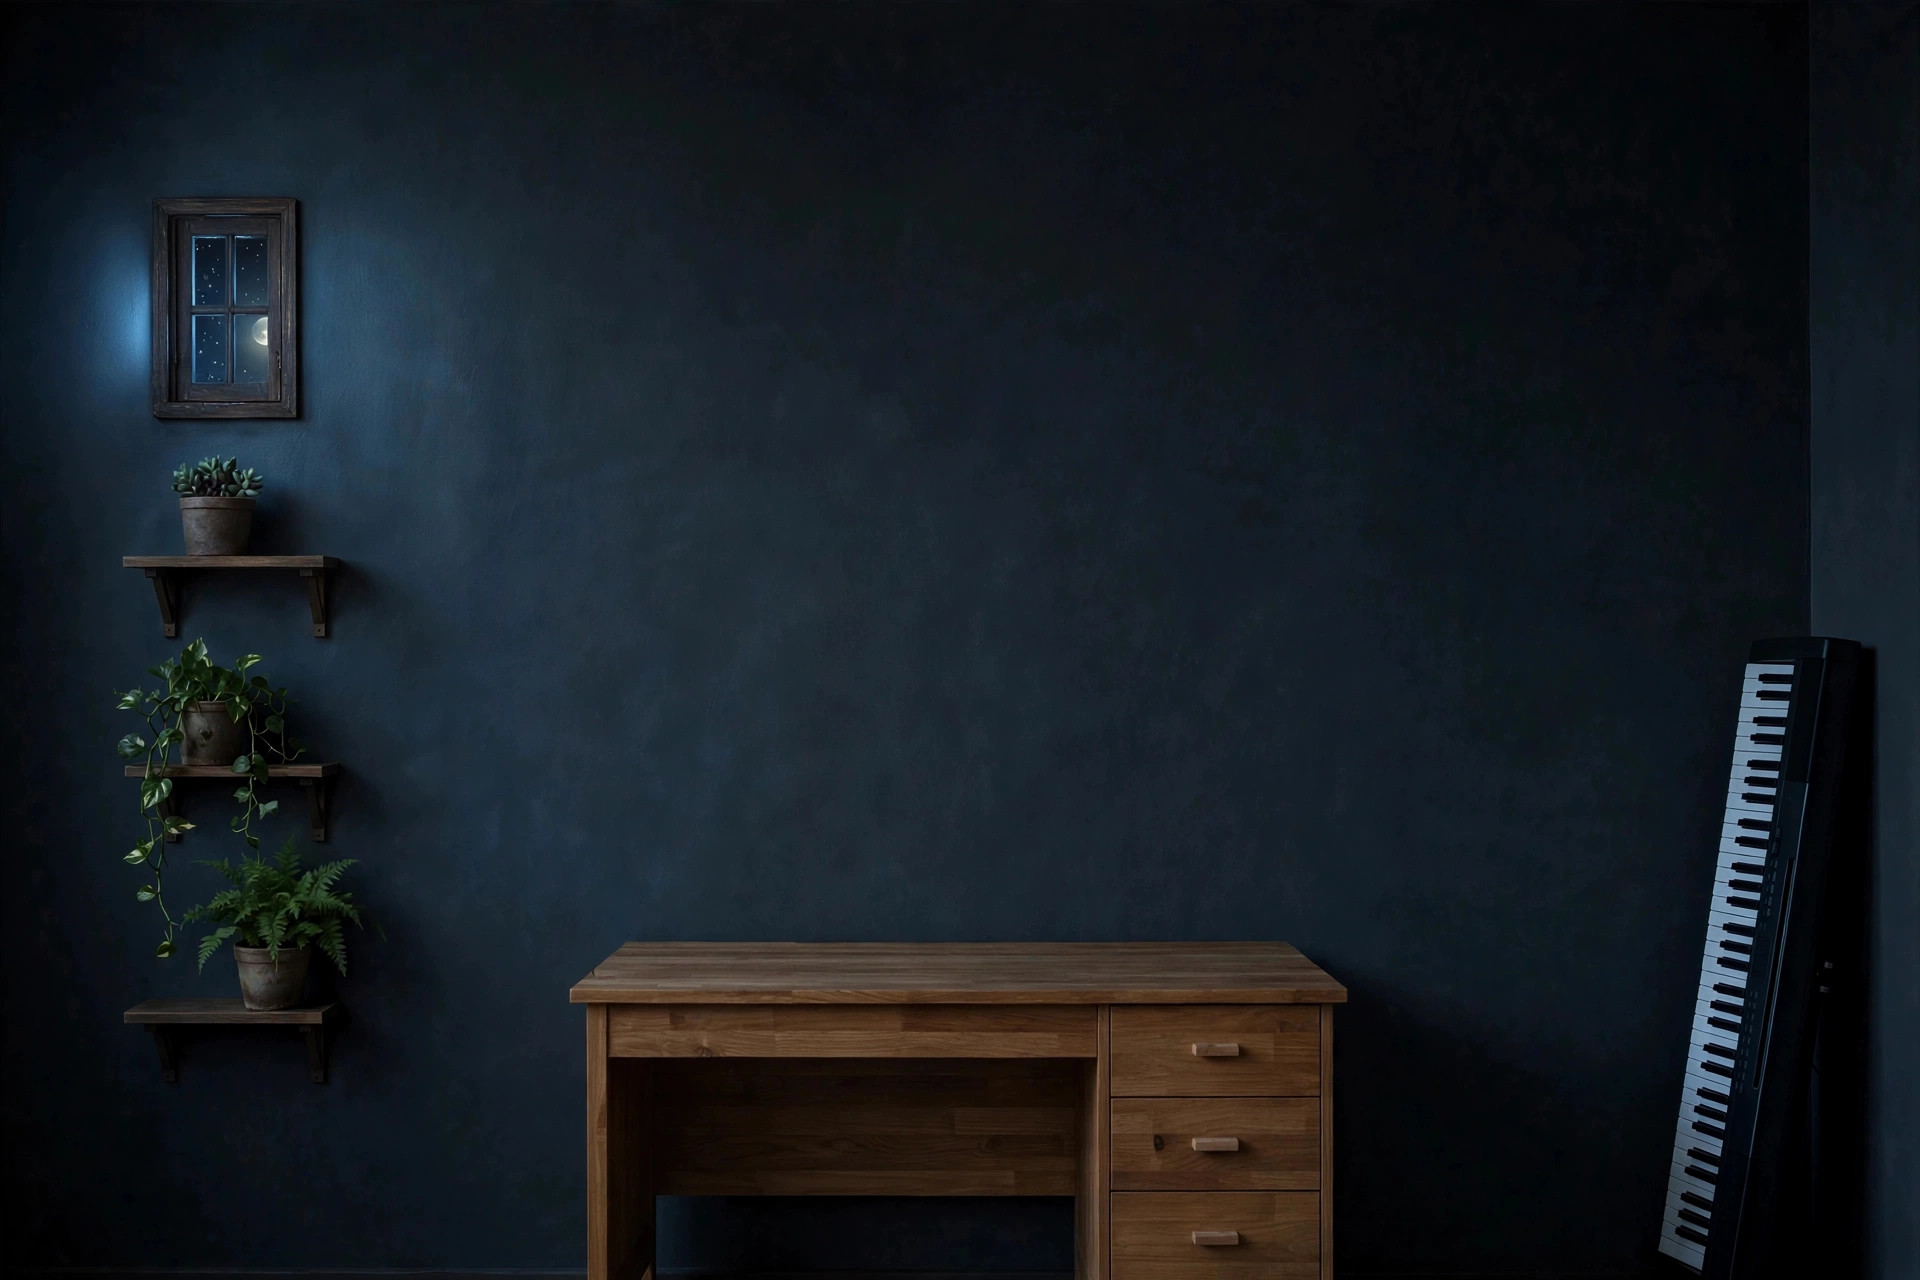
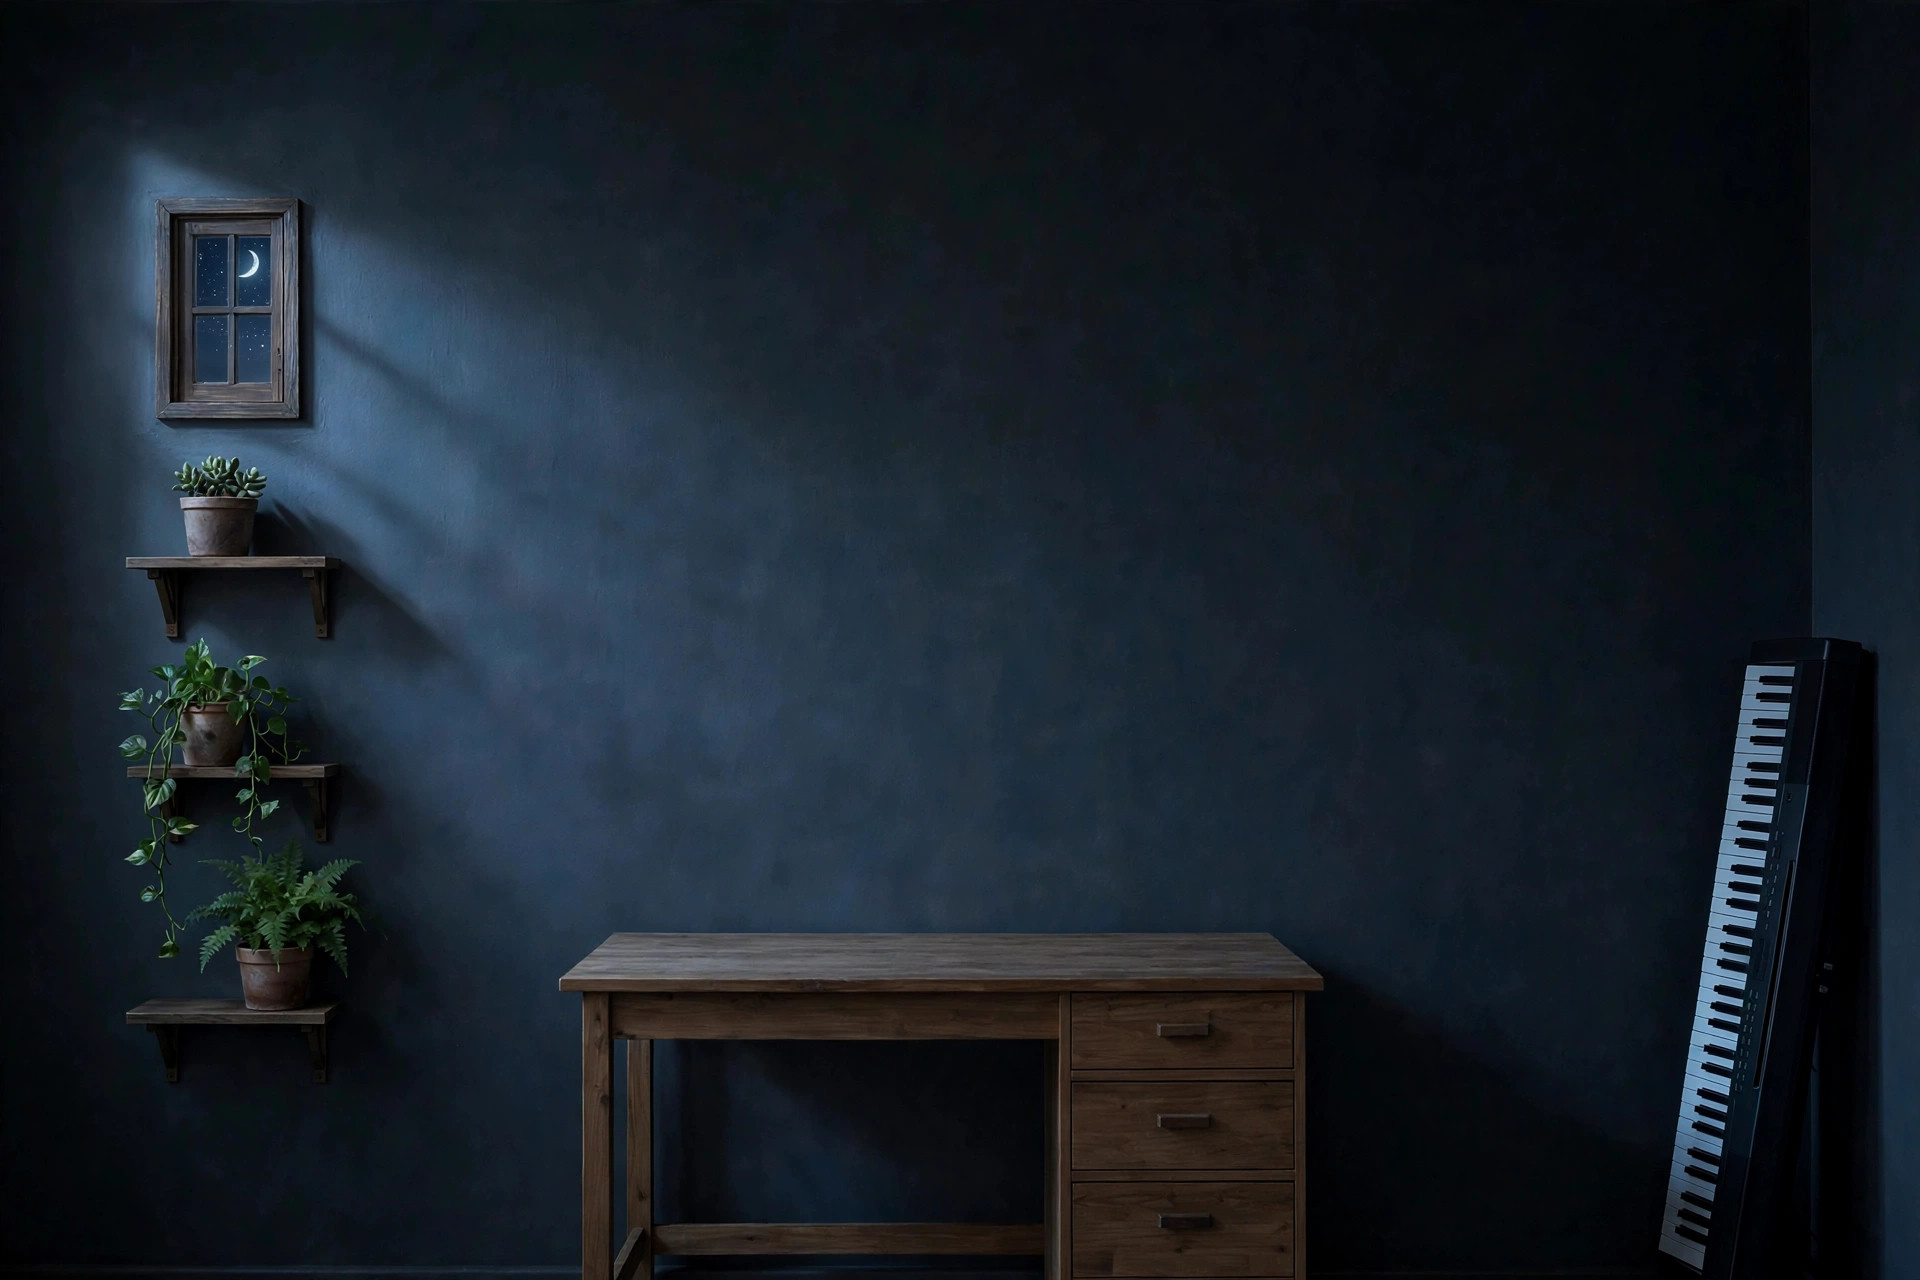
Six background murals: day/night x bonus/candle states
- Day/night desks now match (night regenerated from day base).
- Bonus on adds candle to desk; lit/unlit follows candle state.

Changed region(s): [[0.0312, 0.0938, 0.7188, 1.0], [0.875, 0.5, 0.9375, 0.9062]]

diff --git a/src/components/Office.vue b/src/components/Office.vue
@@ -3,8 +3,30 @@ import { computed, ref } from 'vue';
 import Bookshelf from './Bookshelf.vue';
 import BookView from './BookView.vue';
 import { useOfficeStore } from '../stores/office';
+import { useBonusStore } from '../stores/bonus';
 
 const office = useOfficeStore();
+const bonus = useBonusStore();
+
+/** Reactive dark-mode flag (synced from html[data-theme]). */
+const isDark = ref(document.documentElement.dataset.theme === 'dark');
+let themeObs = null;
+if (typeof MutationObserver !== 'undefined') {
+  themeObs = new MutationObserver(() => {
+    isDark.value = document.documentElement.dataset.theme === 'dark';
+  });
+  themeObs.observe(document.documentElement, { attributes: true, attributeFilter: ['data-theme'] });
+}
+
+/** Background mural: day/night x bonus/candle state (6 versions). */
+const shelfBg = computed(() => {
+  const base = isDark.value ? 'office-wall-night' : 'office-wall-day';
+  let file = base + '.jpg';
+  if (bonus.enabled && !bonus.candleGone) {
+    file = base + (bonus.candleLit ? '-candle-lit.jpg' : '-candle.jpg');
+  }
+  return `url('/${file}') center / cover no-repeat`;
+});
 const bookViewRef = ref<InstanceType<typeof BookView> | null>(null);
 
 defineEmits(['open-book', 'back-to-cover', 'back-to-cover-section', 'finale-contact']);
@@ -22,7 +44,7 @@ const trackClass = computed(() => ({
   <div class="office">
     <div class="office-track" :class="trackClass">
       <!-- Shelf view: the bookshelf (backdrop or interactive when bound). -->
-      <div class="office-slide office-shelf" aria-label="Bookshelf">
+      <div class="office-slide office-shelf" aria-label="Bookshelf" :style="{ background: shelfBg }">
         <Bookshelf
           :backdrop="!office.manuscriptBound"
           :interactive="true"
@@ -95,10 +117,8 @@ const trackClass = computed(() => ({
   display: flex;
   align-items: center;
   justify-content: center;
-  /* Flat wall with plants and a window behind the bookcase. */
-  background:
-    url('/office-wall-day.jpg') center / cover no-repeat,
-    #141009;
+  /* Background set via inline style (shelfBg computed). */
+  background-color: #141009;
 }
 
 .night-sky {
@@ -153,10 +173,4 @@ const trackClass = computed(() => ({
 }
 </style>
 
-<style>
-/* Theme-based background swap (non-scoped: html selector). */
-html[data-theme='dark'] .office-shelf {
-  background: url('/office-wall-night.jpg') center / cover no-repeat, #0a0d14;
-}
-</style>
 
